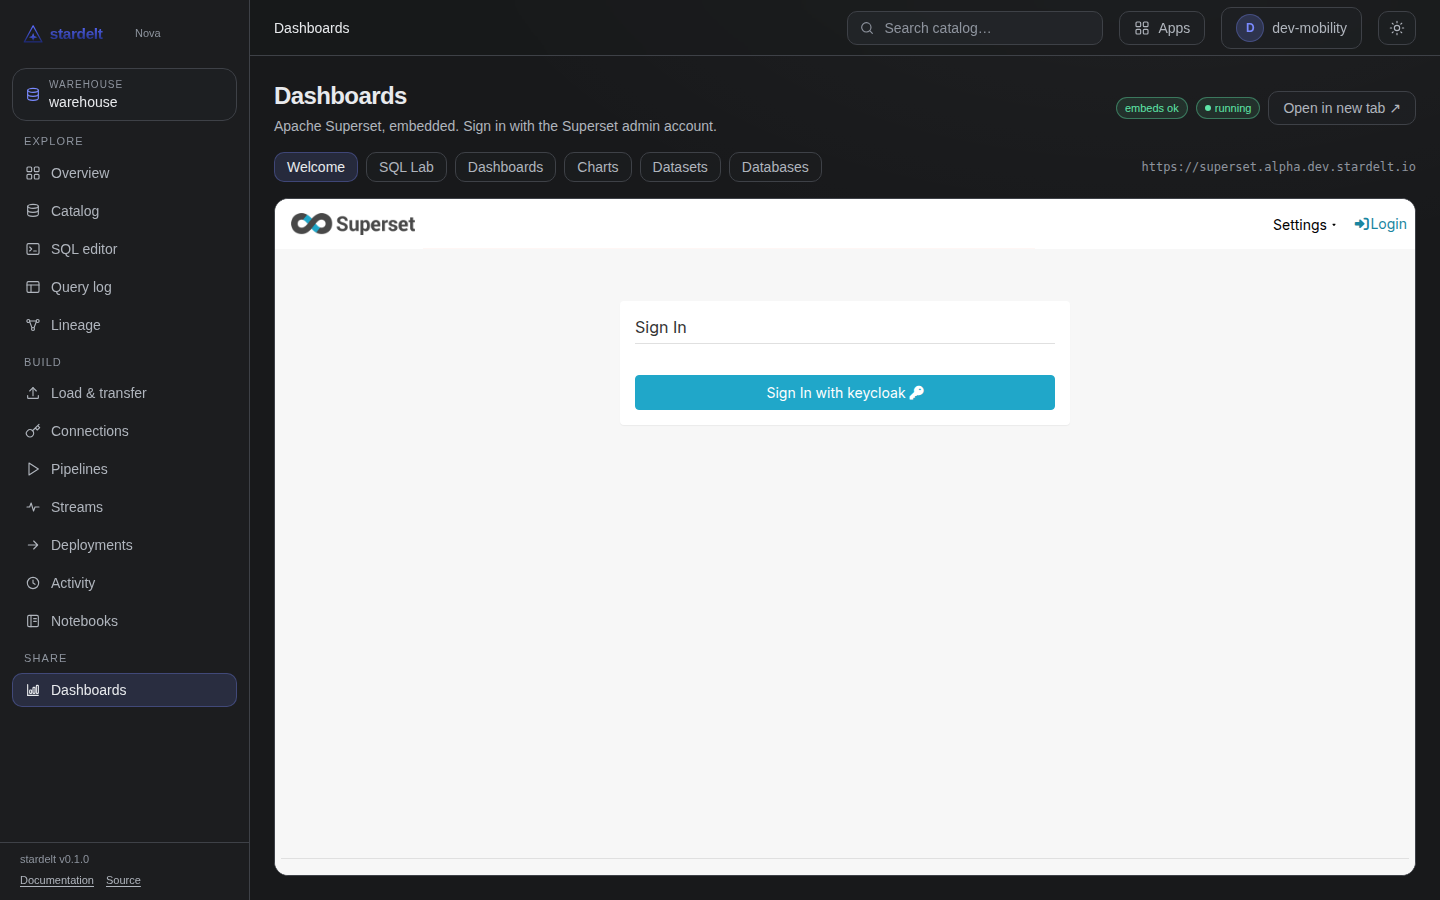
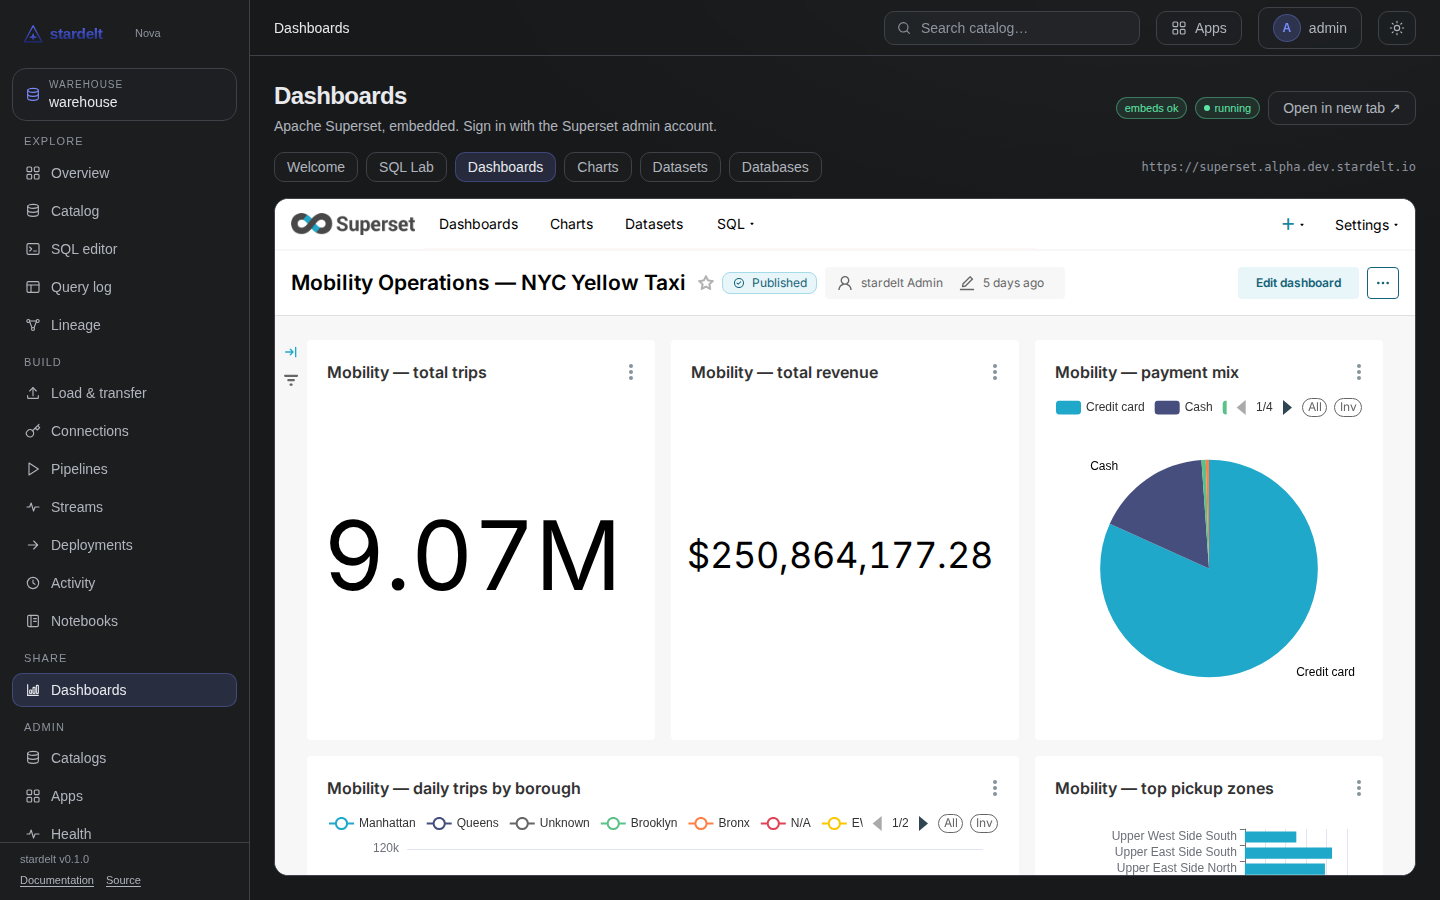
fix(site): the hero image resolves, and Share shows the dashboard (#293)
Two broken images on the home page:

- the hero pointed at /img/nova-overview.png, which has never existed —
  the capture script writes static/img/nova/overview.png (404 live);
- the Share step's dashboard screenshot was the embedded Superset sign-in
  form, because the capture logged into Nova only. It now signs into
  Superset (same Keycloak SSO) and refuses to save a frame that still
  shows a sign-in page; the image is the Mobility Operations dashboard
  rendered inside Nova.

diff --git a/src/pages/index.tsx b/src/pages/index.tsx
@@ -139,7 +139,7 @@ function HomepageHero(): ReactNode {
         <div className={styles.heroVisual}>
           <img
             className={styles.heroScreenshot}
-            src="/img/nova-overview.png"
+            src="/img/nova/overview.png"
             alt="stardelt Nova overview: catalogs, recent activity and the platform apps"
             width={1440}
             height={900}
@@ -336,7 +336,7 @@ spec:
     body:
       "Dashboards in the team's own space, with the same sign-in and the same permissions.",
     img: '/img/nova/dashboards.png',
-    alt: 'Nova dashboards view showing team dashboards in their own space.',
+    alt: 'Nova showing the Mobility Operations dashboard embedded from Superset.',
     code: null,
   },
 ];
